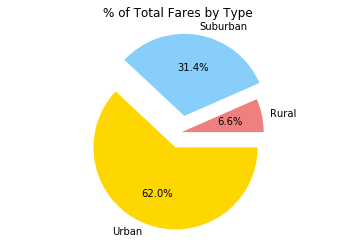
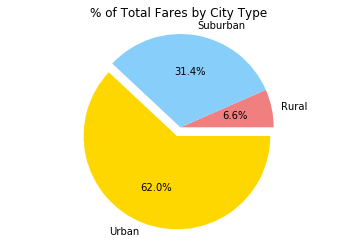
corrected pie chart explode

diff --git a/Pyber_avl/Pyber_avl.md b/Pyber_avl/Pyber_avl.md
@@ -491,7 +491,7 @@ group_type = all_data_colored.groupby(['type'])
 plt.pie(group_type['fare'].sum(),
         labels = group_type['fare'].sum().keys(), 
         colors = group_type['color'].min(), 
-        explode = [0,0.2,0.2],
+        explode = [0,0,0.1],
        autopct = '%1.1f%%')
 plt.title('% of Total Fares by City Type')
 plt.axis('equal')
@@ -510,7 +510,7 @@ group_type = bubble_data.groupby(['City Type'])
 plt.pie(group_type['Total Rides'].sum(),
         labels = group_type['Total Rides'].sum().keys(), 
         colors = group_type['color'].min(), 
-        explode = [0,0.2,0.2],
+        explode = [0,0,0.1],
        autopct = '%1.1f%%')
 plt.title('% of Total Rides by City Type')
 plt.axis('equal')
@@ -529,7 +529,7 @@ group_type = all_data_colored.groupby(['type'])
 plt.pie(group_type['driver_count'].sum(),
         labels = group_type['driver_count'].sum().keys(), 
         colors = group_type['color'].min(), 
-        explode = [0,0.2,0.2],
+        explode = [0,0,0.1],
        autopct = '%1.1f%%')
 plt.title('% of Total Drivers by City Type')
 plt.axis('equal')
